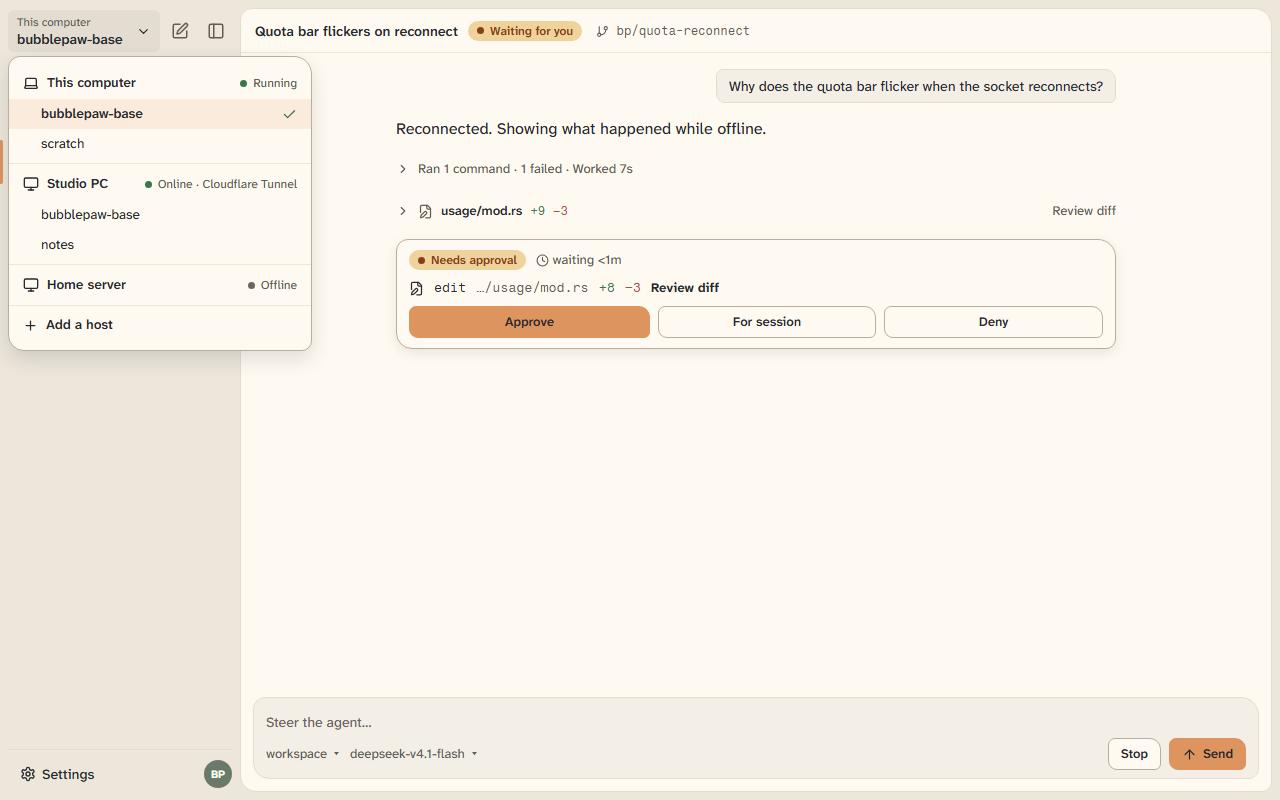
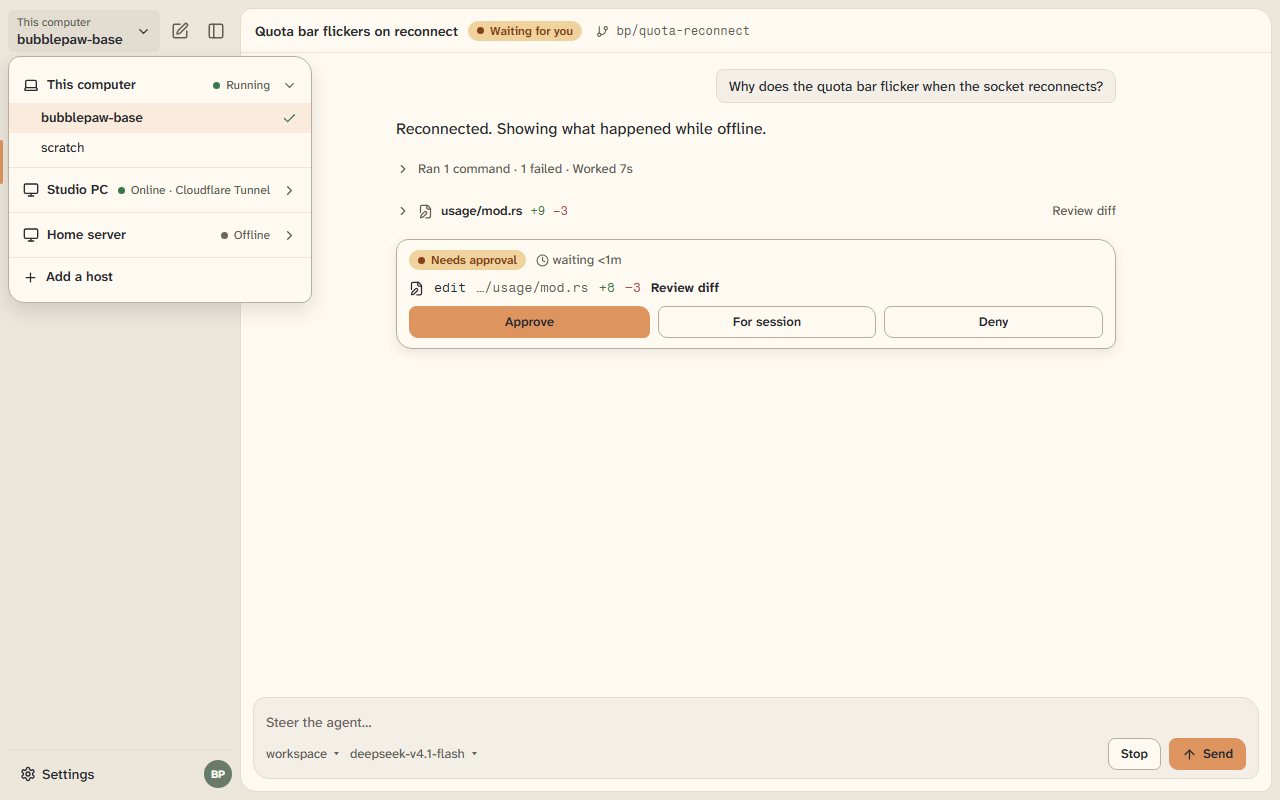
Make host groups in the switcher collapsible on phone and desktop

diff --git a/design/remote-and-settings/app.js b/design/remote-and-settings/app.js
@@ -52,7 +52,7 @@
     ],
     def: 'deepseek-v4.1-flash',
     dlg: null, add: { step: 1 }, addDone: false, back: 'phone',
-    pview: H.pview === 'chat' ? 'chat' : 'list', sheet: H.sheet === '1', sw: H.sw !== '0', pop: H.pop !== '0', dsel: { h: 'local', w: 'bubblepaw-base' }, active: H.active || 'h1', ws: 'bubblepaw-base',
+    pview: H.pview === 'chat' ? 'chat' : 'list', sheet: H.sheet === '1', sw: H.sw !== '0', pop: H.pop !== '0', dsel: { h: 'local', w: 'bubblepaw-base' }, expD: new Set(['local']), expP: new Set([H.active || 'h1']), active: H.active || 'h1', ws: 'bubblepaw-base',
     fail2: false,
   };
   if (S.screen === 'pair') M.dlg = { type: 'pair', step: +(H.step || 1), left: 292, code: 'K7M2Q-9XFD4', prof: 'edit' };
@@ -409,8 +409,8 @@
     }
     const row = (t, s, plain) => `<button class="chatrow" ${A('pview', 'chat')}><div class="t">${t}</div><div class="s ${plain ? 'plain' : ''}">${s}</div></button>`;
     const chats = ah ? `<div class="rail-label">Today</div>${row('Quota bar flickers on reconnect', 'Waiting for you', false)}${row('Plan the settings page', 'Finished 2h ago', true)}<div class="rail-label">Yesterday</div>${row('Trace the socket reconnect', 'Finished yesterday', true)}` : '<div class="empty">No host selected. Open the host menu and add a host to see its chats.</div>';
-    const wsRow = (n) => `<button class="ws ${M.ws === n ? 'on' : ''}" ${A('setWs', n)}>${n}${M.ws === n ? `<span class="ck">${ic('check', 16)}</span>` : ''}</button>`;
-    const items = M.hosts.map((h) => `<div class="host-item"><button class="host-line" ${A('setHost', h.id)}>${ic('monitor', 18)}<span class="two"><div class="t">${h.name}</div><div class="s">${h.online ? `${dotOn}Online · ${h.type}` : `<span class="dot off"></span>Offline${h.seen ? ' · ' + h.seen : ''}`}</div></span>${M.active === h.id ? `<span class="ck">${ic('check', 16)}</span>` : ''}</button>${M.active === h.id ? (h.online ? wsRow('bubblepaw-base') + wsRow('scratch') : '<div class="s" style="padding:0 12px 10px 40px;color:var(--muted);font-size:13px">Offline. Workspaces are unavailable.</div>') : ''}</div>`).join('');
+    const wsRow = (h, n) => `<button class="ws ${M.active === h.id && M.ws === n ? 'on' : ''}" ${h.online ? A('setWs', h.id + '|' + n) : 'disabled'}>${n}${M.active === h.id && M.ws === n ? `<span class="ck">${ic('check', 16)}</span>` : ''}</button>`;
+    const items = M.hosts.map((h) => { const open = M.expP.has(h.id); return `<div class="host-item ${h.online ? '' : 'is-off'}"><button class="host-line" aria-expanded="${open}" aria-controls="ws-${h.id}" ${A('togP', h.id)}>${ic('monitor', 18)}<span class="two"><div class="t">${h.name}</div><div class="s">${h.online ? `${dotOn}Online · ${h.type}` : `<span class="dot off"></span>Offline${h.seen ? ' · ' + h.seen : ''}`}</div></span><span class="chev">${ic(open ? 'chevron-down' : 'chevron-right', 16)}</span></button>${open ? `<div id="ws-${h.id}">${wsRow(h, 'bubblepaw-base')}${wsRow(h, 'scratch')}</div>` : ''}</div>`; }).join('');
     const hb = `<button class="hostbtn" aria-haspopup="dialog" ${A('sheet', 1)} style="min-height:48px"><span class="two"><div class="h">${ah ? (ah.online ? `${dotOn} ${ah.name} · Online` : `<span class="dot off"></span> ${ah.name} · Offline`) : 'No host'}</div><div class="w">${ah ? M.ws : 'Add a host'}</div></span>${ic('chevron-down', 16)}</button>`;
     return frameOpen(`<div class="main"><div class="topbar" style="gap:4px">${hb}${iconBtn('settings', 'Settings', 'toSettings')}</div>
       <div class="phone-body" style="padding:8px 8px 12px">
@@ -423,9 +423,10 @@
   function desktopChat() {
     const sel = M.dsel;
     const selHost = sel.h === 'local' ? 'This computer' : (M.hosts.find((h) => h.id === sel.h) || {}).name || 'This computer';
-    const wsBtn = (h, w) => `<button class="pop-i ${sel.h === h && sel.w === w ? 'on' : ''}" ${A('dsel', h + '|' + w)}>${w}${sel.h === h && sel.w === w ? `<span class="ck">${ic('check', 15)}</span>` : ''}</button>`;
-    const pop = M.pop ? `<div class="popover" role="menu"><div class="pop-group"><div class="pop-h">${ic('laptop', 16)}<span class="t">This computer</span><span class="s">${dotOn} Running</span></div>${wsBtn('local', 'bubblepaw-base')}${wsBtn('local', 'scratch')}</div>
-      ${M.hosts.map((h) => `<div class="pop-group"><div class="pop-h">${ic('monitor', 16)}<span class="t">${h.name}</span><span class="s">${h.online ? `${dotOn} Online · ${h.type}` : '<span class="dot off"></span> Offline'}</span></div>${h.online ? wsBtn(h.id, 'bubblepaw-base') + wsBtn(h.id, 'notes') : ''}</div>`).join('')}
+    const wsBtn = (h, w, off) => `<button class="pop-i ${sel.h === h && sel.w === w ? 'on' : ''}" ${off ? 'disabled' : A('dsel', h + '|' + w)}>${w}${sel.h === h && sel.w === w ? `<span class="ck">${ic('check', 15)}</span>` : ''}</button>`;
+    const grp = (id, icon, name, state, wss, off) => { const open = M.expD.has(id); return `<div class="pop-group ${off ? 'is-off' : ''}"><button class="pop-h" aria-expanded="${open}" ${A('togD', id)}>${ic(icon, 16)}<span class="t">${name}</span><span class="s">${state}</span><span class="chev">${ic(open ? 'chevron-down' : 'chevron-right', 15)}</span></button>${open ? wss.map((w) => wsBtn(id, w, off)).join('') : ''}</div>`; };
+    const pop = M.pop ? `<div class="popover" role="menu">${grp('local', 'laptop', 'This computer', `${dotOn} Running`, ['bubblepaw-base', 'scratch'], false)}
+      ${M.hosts.map((h) => grp(h.id, 'monitor', h.name, h.online ? `${dotOn} Online · ${h.type}` : '<span class="dot off"></span> Offline', ['bubblepaw-base', 'notes'], !h.online)).join('')}
       <div class="pop-group"><button class="pop-i plain" ${A('startAdd')}>${ic('plus', 15)}Add a host</button></div></div>` : '';
     return `<div class="app"><aside class="rail"><div class="rail-head"><button class="hostbtn" aria-expanded="${M.pop}" aria-haspopup="menu" ${A('pop')}><span class="two"><div class="h">${selHost}</div><div class="w">${sel.w}</div></span>${ic('chevron-down', 15)}</button>${iconBtn('square-pen', 'New chat')}${iconBtn('panel-left', 'Hide the rail')}</div>
       <div class="rail-search">${ic('search', 16)}Search<kbd>Ctrl K</kbd></div><div class="rail-label">Today</div>
@@ -600,8 +601,10 @@
     pview: (v) => { M.pview = v; },
     sheet: (v) => { M.sheet = v === undefined ? !M.sheet : !!+v; },
     sw: () => { M.sw = !M.sw; },
+    togP: (v) => { if (M.expP.has(v)) M.expP.delete(v); else M.expP.add(v); },
+    togD: (v) => { if (M.expD.has(v)) M.expD.delete(v); else M.expD.add(v); },
     setHost: (v) => { M.active = v; const h = M.hosts.find((x) => x.id === v); if (h && !h.online) M.sheet = false; },
-    setWs: (v) => { M.ws = v; M.sheet = false; },
+    setWs: (v) => { const [h, w] = v.split('|'); M.active = h; M.ws = w; M.sheet = false; },
     pop: () => { M.pop = !M.pop; },
     dsel: (v) => { const [h, w] = v.split('|'); M.dsel = { h, w }; M.pop = false; },
   };
@@ -634,6 +637,7 @@
     if (k === 'zone') { M.f.zone = ev.target.value; render(); }
   });
   document.addEventListener('keydown', (ev) => { if (ev.key === 'Escape' && M.dlg) { ACT.close(); render(); } });
+  if (H.exp) H.exp.split(',').forEach((x) => { M.expP.add(x); M.expD.add(x); });
   if (H.other === '1') M.other = true;
   if (H.coreMode) M.coreMode = H.coreMode;
   if (H.lic) M.licOpen.add(H.lic);

diff --git a/design/remote-and-settings/style.css b/design/remote-and-settings/style.css
@@ -377,3 +377,14 @@ body.still * { animation: none !important; }
 .bsheet-h .t { font-weight: 600; font-size: 16px; }
 .host-line .ck { margin-left: auto; color: var(--ok-ink); }
 .mrow .grow { flex: 1; min-width: 0; }
+
+/* Switcher: collapsible host groups */
+.pop-h { width: 100%; border: 0; background: transparent; text-align: left; font: inherit; color: inherit; min-height: 36px; }
+.pop-h:hover { background: var(--hover); }
+.pop-h .s { margin-left: auto; }
+.chev { display: inline-flex; color: var(--muted); flex: none; }
+.pop-h .s + .chev { margin-left: 4px; }
+.host-line .chev { margin-left: auto; }
+.is-off .ws, .is-off .pop-i { color: var(--muted); opacity: .55; cursor: default; }
+.is-off .ws:hover, .is-off .pop-i:hover { background: transparent; }
+.phone .host-line { min-height: 52px; }
